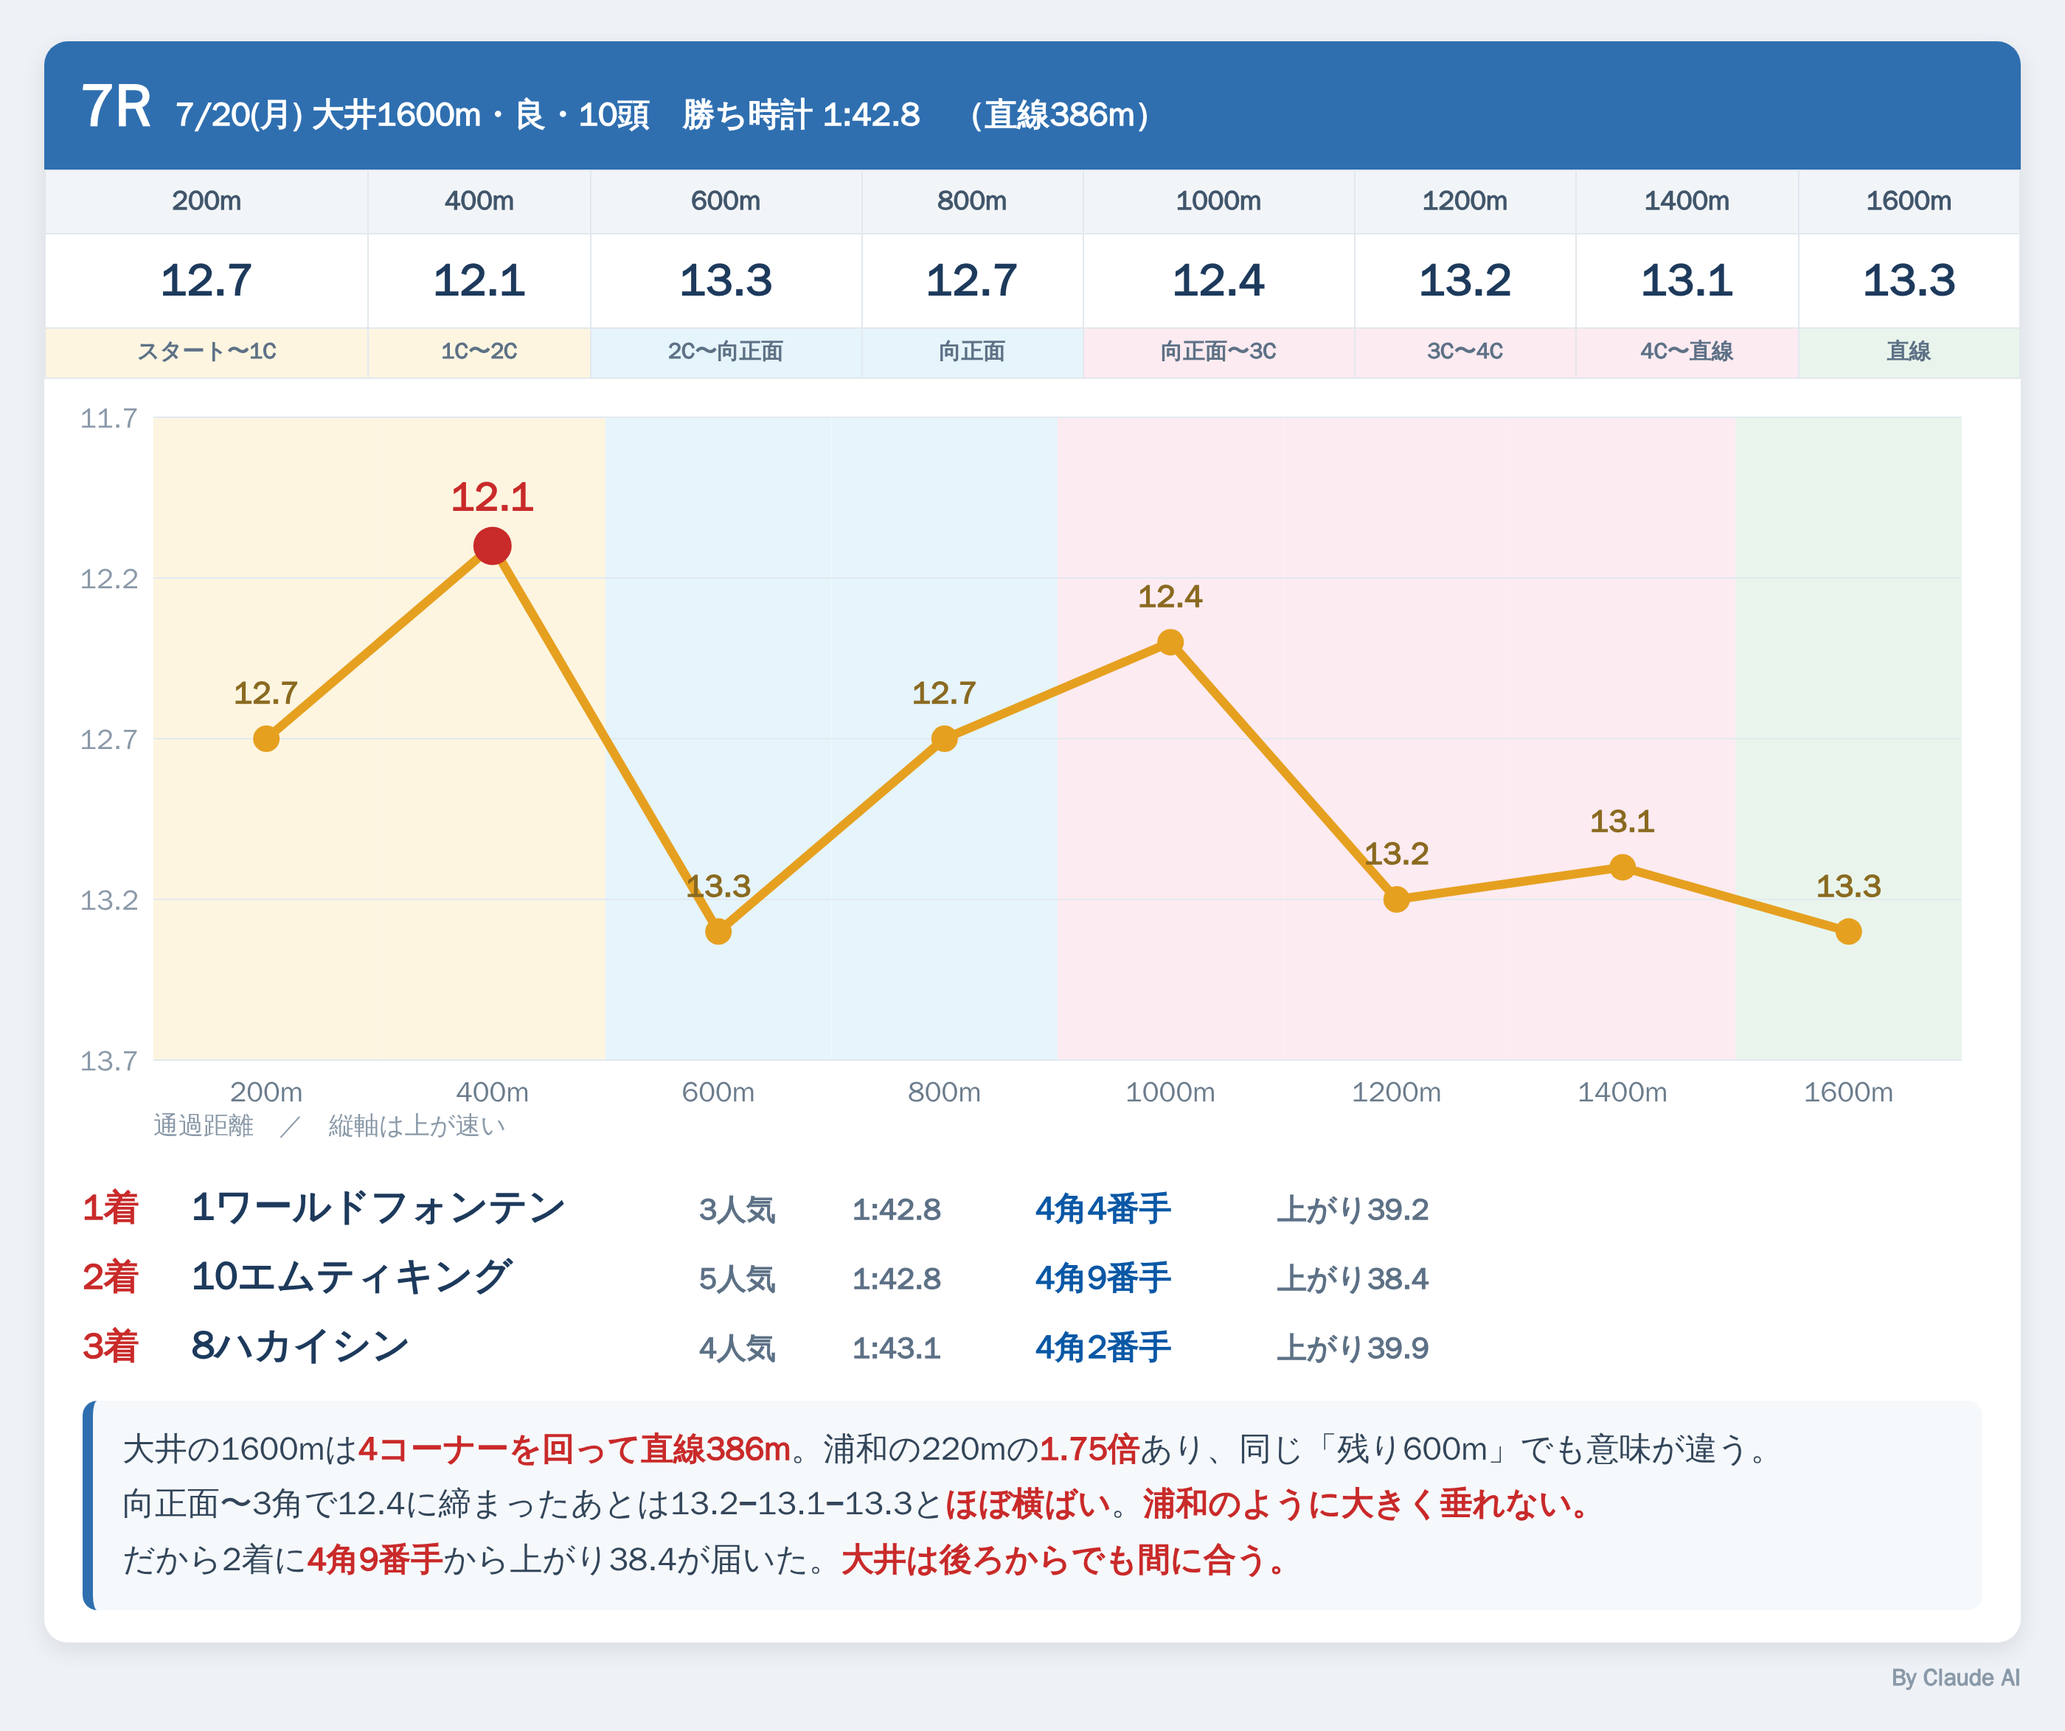
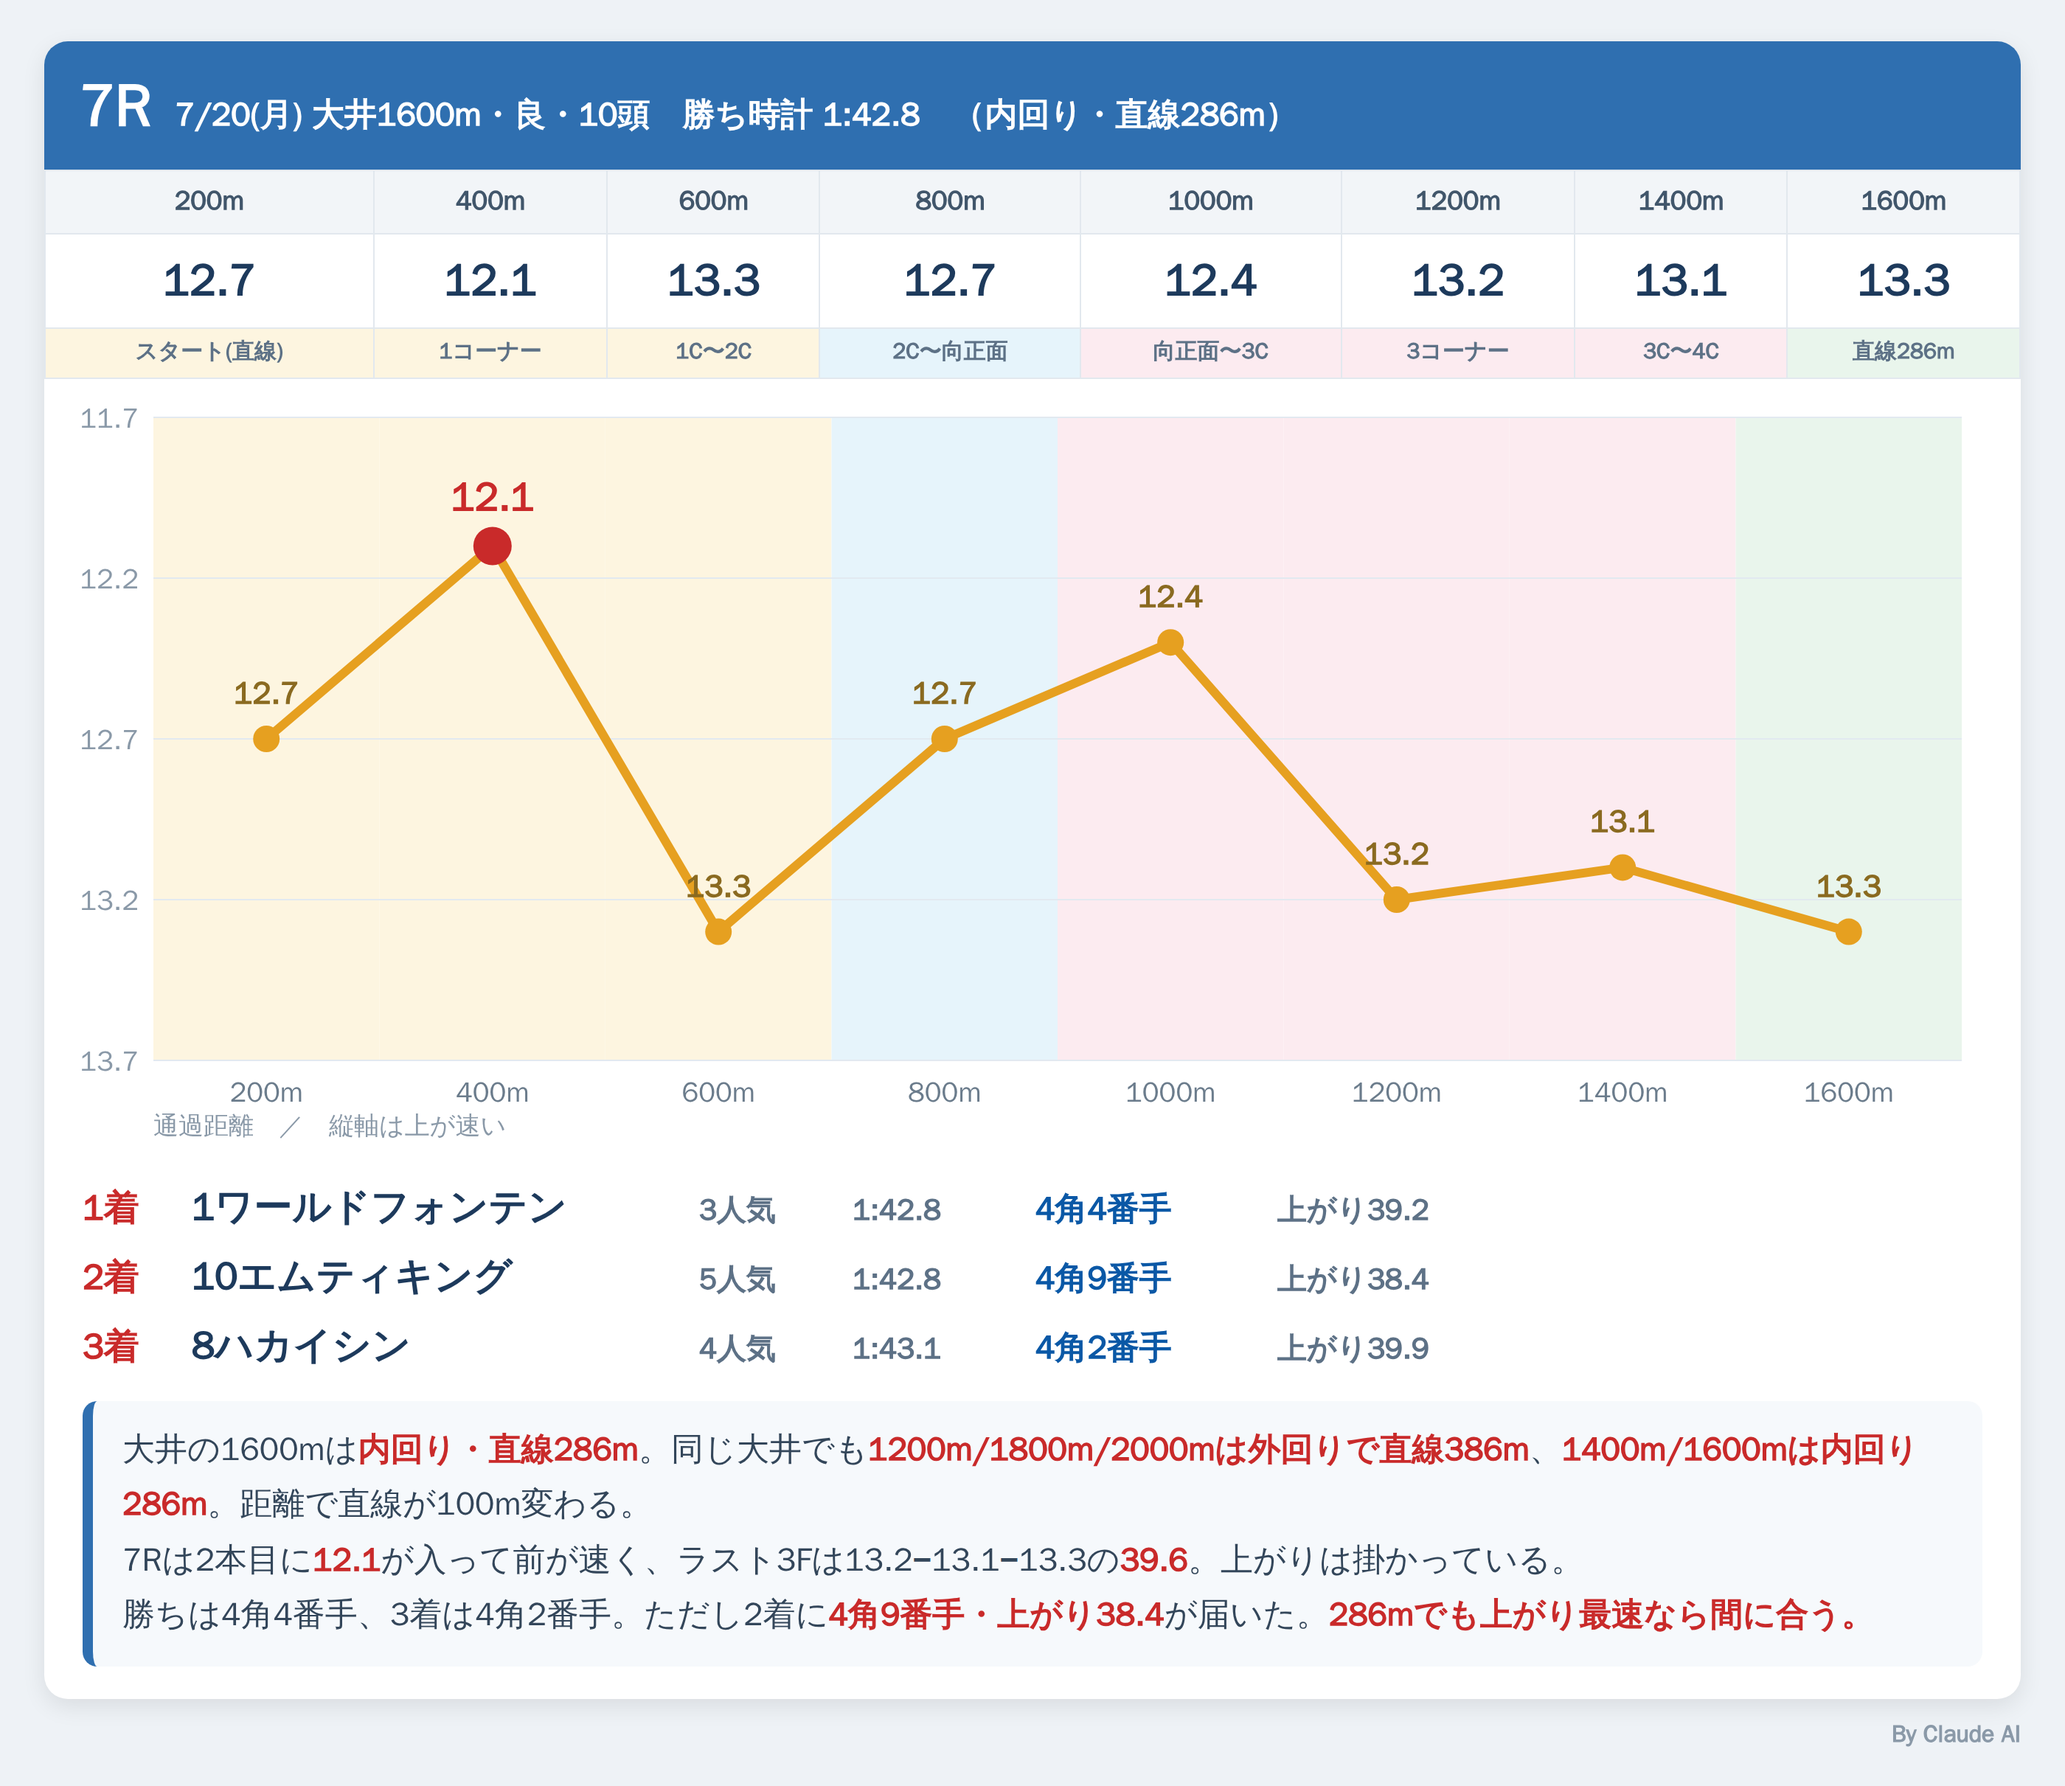
大井7/20 7R: コース表記を内回り・直線286mに修正
大井は1400m/1600mが内回り(1周1400m・直線286m)、1200m/1800m/2000mが
外回り(1周1600m・直線386m)。7Rの1600mを外回り386mと誤記していたため、
ヘッダー・区間ラベル・読み文をすべて内回り基準に修正した。

Claude-Session: https://claude.ai/code/session_01RoHscZkr96FNaxQWvUqgEw

diff --git a/notes/live/2026-08-12/oi_0720_7R.html b/notes/live/2026-08-12/oi_0720_7R.html
@@ -25,11 +25,11 @@
 </style></head><body>
 <div class="card">
   <div class="box">
-    <div class="bh"><b>7R</b><span>7/20(月) 大井1600m・良・10頭　勝ち時計 1:42.8　（直線386m）</span></div>
-    <table><tr><th>200m</th><th>400m</th><th>600m</th><th>800m</th><th>1000m</th><th>1200m</th><th>1400m</th><th>1600m</th></tr><tr><td>12.7</td><td>12.1</td><td>13.3</td><td>12.7</td><td>12.4</td><td>13.2</td><td>13.1</td><td>13.3</td></tr><tr><td class="sg" style="background:#fdf5e0">スタート〜1C</td><td class="sg" style="background:#fdf5e0">1C〜2C</td><td class="sg" style="background:#e6f4fb">2C〜向正面</td><td class="sg" style="background:#e6f4fb">向正面</td><td class="sg" style="background:#fcebf0">向正面〜3C</td><td class="sg" style="background:#fcebf0">3C〜4C</td><td class="sg" style="background:#fcebf0">4C〜直線</td><td class="sg" style="background:#e9f5ec">直線</td></tr></table>
-    <svg viewBox="0 0 1320 520" width="1320" height="520"><rect x="74.0" y="26" width="153.2" height="436" fill="#fdf5e0"/><rect x="227.2" y="26" width="153.2" height="436" fill="#fdf5e0"/><rect x="380.5" y="26" width="153.2" height="436" fill="#e6f4fb"/><rect x="533.8" y="26" width="153.2" height="436" fill="#e6f4fb"/><rect x="687.0" y="26" width="153.2" height="436" fill="#fcebf0"/><rect x="840.2" y="26" width="153.2" height="436" fill="#fcebf0"/><rect x="993.5" y="26" width="153.2" height="436" fill="#fcebf0"/><rect x="1146.8" y="26" width="153.2" height="436" fill="#e9f5ec"/><line x1="74" y1="26.0" x2="1300" y2="26.0" stroke="#e2e9f0"/><text x="64" y="33.0" text-anchor="end" font-size="19" fill="#8a99a8">11.7</text><line x1="74" y1="135.0" x2="1300" y2="135.0" stroke="#e2e9f0"/><text x="64" y="142.0" text-anchor="end" font-size="19" fill="#8a99a8">12.2</text><line x1="74" y1="244.0" x2="1300" y2="244.0" stroke="#e2e9f0"/><text x="64" y="251.0" text-anchor="end" font-size="19" fill="#8a99a8">12.7</text><line x1="74" y1="353.0" x2="1300" y2="353.0" stroke="#e2e9f0"/><text x="64" y="360.0" text-anchor="end" font-size="19" fill="#8a99a8">13.2</text><line x1="74" y1="462.0" x2="1300" y2="462.0" stroke="#e2e9f0"/><text x="64" y="469.0" text-anchor="end" font-size="19" fill="#8a99a8">13.7</text><polyline points="150.6,244.0 303.9,113.2 457.1,374.8 610.4,244.0 763.6,178.6 916.9,353.0 1070.1,331.2 1223.4,374.8" fill="none" stroke="#e6a020" stroke-width="6" stroke-linejoin="round"/><circle cx="150.6" cy="244.0" r="9" fill="#e6a020"/><text x="150.6" y="220.0" text-anchor="middle" font-size="21" font-weight="900" fill="#8a6a20">12.7</text><text x="150.6" y="490" text-anchor="middle" font-size="19" fill="#6b7c8c">200m</text><circle cx="303.9" cy="113.2" r="13" fill="#c92a2a"/><text x="303.9" y="89.2" text-anchor="middle" font-size="27" font-weight="900" fill="#c92a2a">12.1</text><text x="303.9" y="490" text-anchor="middle" font-size="19" fill="#6b7c8c">400m</text><circle cx="457.1" cy="374.8" r="9" fill="#e6a020"/><text x="457.1" y="350.8" text-anchor="middle" font-size="21" font-weight="900" fill="#8a6a20">13.3</text><text x="457.1" y="490" text-anchor="middle" font-size="19" fill="#6b7c8c">600m</text><circle cx="610.4" cy="244.0" r="9" fill="#e6a020"/><text x="610.4" y="220.0" text-anchor="middle" font-size="21" font-weight="900" fill="#8a6a20">12.7</text><text x="610.4" y="490" text-anchor="middle" font-size="19" fill="#6b7c8c">800m</text><circle cx="763.6" cy="178.6" r="9" fill="#e6a020"/><text x="763.6" y="154.6" text-anchor="middle" font-size="21" font-weight="900" fill="#8a6a20">12.4</text><text x="763.6" y="490" text-anchor="middle" font-size="19" fill="#6b7c8c">1000m</text><circle cx="916.9" cy="353.0" r="9" fill="#e6a020"/><text x="916.9" y="329.0" text-anchor="middle" font-size="21" font-weight="900" fill="#8a6a20">13.2</text><text x="916.9" y="490" text-anchor="middle" font-size="19" fill="#6b7c8c">1200m</text><circle cx="1070.1" cy="331.2" r="9" fill="#e6a020"/><text x="1070.1" y="307.2" text-anchor="middle" font-size="21" font-weight="900" fill="#8a6a20">13.1</text><text x="1070.1" y="490" text-anchor="middle" font-size="19" fill="#6b7c8c">1400m</text><circle cx="1223.4" cy="374.8" r="9" fill="#e6a020"/><text x="1223.4" y="350.8" text-anchor="middle" font-size="21" font-weight="900" fill="#8a6a20">13.3</text><text x="1223.4" y="490" text-anchor="middle" font-size="19" fill="#6b7c8c">1600m</text><text x="74" y="512" font-size="17" fill="#8a99a8">通過距離　／　縦軸は上が速い</text></svg>
+    <div class="bh"><b>7R</b><span>7/20(月) 大井1600m・良・10頭　勝ち時計 1:42.8　（内回り・直線286m）</span></div>
+    <table><tr><th>200m</th><th>400m</th><th>600m</th><th>800m</th><th>1000m</th><th>1200m</th><th>1400m</th><th>1600m</th></tr><tr><td>12.7</td><td>12.1</td><td>13.3</td><td>12.7</td><td>12.4</td><td>13.2</td><td>13.1</td><td>13.3</td></tr><tr><td class="sg" style="background:#fdf5e0">スタート(直線)</td><td class="sg" style="background:#fdf5e0">1コーナー</td><td class="sg" style="background:#fdf5e0">1C〜2C</td><td class="sg" style="background:#e6f4fb">2C〜向正面</td><td class="sg" style="background:#fcebf0">向正面〜3C</td><td class="sg" style="background:#fcebf0">3コーナー</td><td class="sg" style="background:#fcebf0">3C〜4C</td><td class="sg" style="background:#e9f5ec">直線286m</td></tr></table>
+    <svg viewBox="0 0 1320 520" width="1320" height="520"><rect x="74.0" y="26" width="153.2" height="436" fill="#fdf5e0"/><rect x="227.2" y="26" width="153.2" height="436" fill="#fdf5e0"/><rect x="380.5" y="26" width="153.2" height="436" fill="#fdf5e0"/><rect x="533.8" y="26" width="153.2" height="436" fill="#e6f4fb"/><rect x="687.0" y="26" width="153.2" height="436" fill="#fcebf0"/><rect x="840.2" y="26" width="153.2" height="436" fill="#fcebf0"/><rect x="993.5" y="26" width="153.2" height="436" fill="#fcebf0"/><rect x="1146.8" y="26" width="153.2" height="436" fill="#e9f5ec"/><line x1="74" y1="26.0" x2="1300" y2="26.0" stroke="#e2e9f0"/><text x="64" y="33.0" text-anchor="end" font-size="19" fill="#8a99a8">11.7</text><line x1="74" y1="135.0" x2="1300" y2="135.0" stroke="#e2e9f0"/><text x="64" y="142.0" text-anchor="end" font-size="19" fill="#8a99a8">12.2</text><line x1="74" y1="244.0" x2="1300" y2="244.0" stroke="#e2e9f0"/><text x="64" y="251.0" text-anchor="end" font-size="19" fill="#8a99a8">12.7</text><line x1="74" y1="353.0" x2="1300" y2="353.0" stroke="#e2e9f0"/><text x="64" y="360.0" text-anchor="end" font-size="19" fill="#8a99a8">13.2</text><line x1="74" y1="462.0" x2="1300" y2="462.0" stroke="#e2e9f0"/><text x="64" y="469.0" text-anchor="end" font-size="19" fill="#8a99a8">13.7</text><polyline points="150.6,244.0 303.9,113.2 457.1,374.8 610.4,244.0 763.6,178.6 916.9,353.0 1070.1,331.2 1223.4,374.8" fill="none" stroke="#e6a020" stroke-width="6" stroke-linejoin="round"/><circle cx="150.6" cy="244.0" r="9" fill="#e6a020"/><text x="150.6" y="220.0" text-anchor="middle" font-size="21" font-weight="900" fill="#8a6a20">12.7</text><text x="150.6" y="490" text-anchor="middle" font-size="19" fill="#6b7c8c">200m</text><circle cx="303.9" cy="113.2" r="13" fill="#c92a2a"/><text x="303.9" y="89.2" text-anchor="middle" font-size="27" font-weight="900" fill="#c92a2a">12.1</text><text x="303.9" y="490" text-anchor="middle" font-size="19" fill="#6b7c8c">400m</text><circle cx="457.1" cy="374.8" r="9" fill="#e6a020"/><text x="457.1" y="350.8" text-anchor="middle" font-size="21" font-weight="900" fill="#8a6a20">13.3</text><text x="457.1" y="490" text-anchor="middle" font-size="19" fill="#6b7c8c">600m</text><circle cx="610.4" cy="244.0" r="9" fill="#e6a020"/><text x="610.4" y="220.0" text-anchor="middle" font-size="21" font-weight="900" fill="#8a6a20">12.7</text><text x="610.4" y="490" text-anchor="middle" font-size="19" fill="#6b7c8c">800m</text><circle cx="763.6" cy="178.6" r="9" fill="#e6a020"/><text x="763.6" y="154.6" text-anchor="middle" font-size="21" font-weight="900" fill="#8a6a20">12.4</text><text x="763.6" y="490" text-anchor="middle" font-size="19" fill="#6b7c8c">1000m</text><circle cx="916.9" cy="353.0" r="9" fill="#e6a020"/><text x="916.9" y="329.0" text-anchor="middle" font-size="21" font-weight="900" fill="#8a6a20">13.2</text><text x="916.9" y="490" text-anchor="middle" font-size="19" fill="#6b7c8c">1200m</text><circle cx="1070.1" cy="331.2" r="9" fill="#e6a020"/><text x="1070.1" y="307.2" text-anchor="middle" font-size="21" font-weight="900" fill="#8a6a20">13.1</text><text x="1070.1" y="490" text-anchor="middle" font-size="19" fill="#6b7c8c">1400m</text><circle cx="1223.4" cy="374.8" r="9" fill="#e6a020"/><text x="1223.4" y="350.8" text-anchor="middle" font-size="21" font-weight="900" fill="#8a6a20">13.3</text><text x="1223.4" y="490" text-anchor="middle" font-size="19" fill="#6b7c8c">1600m</text><text x="74" y="512" font-size="17" fill="#8a99a8">通過距離　／　縦軸は上が速い</text></svg>
     <div class="tops"><div class="tp"><span class="f">1着</span><span class="hn">1ワールドフォンテン</span><span class="pp">3人気</span><span class="tm">1:42.8</span><span class="cn">4角4番手</span><span class="ag">上がり39.2</span></div><div class="tp"><span class="f">2着</span><span class="hn">10エムティキング</span><span class="pp">5人気</span><span class="tm">1:42.8</span><span class="cn">4角9番手</span><span class="ag">上がり38.4</span></div><div class="tp"><span class="f">3着</span><span class="hn">8ハカイシン</span><span class="pp">4人気</span><span class="tm">1:43.1</span><span class="cn">4角2番手</span><span class="ag">上がり39.9</span></div></div>
-    <div class="read">大井の1600mは<b>4コーナーを回って直線386m</b>。浦和の220mの<b>1.75倍</b>あり、同じ「残り600m」でも意味が違う。<br>向正面〜3角で12.4に締まったあとは13.2−13.1−13.3と<b>ほぼ横ばい</b>。<b>浦和のように大きく垂れない。</b><br>だから2着に<b>4角9番手</b>から上がり38.4が届いた。<b>大井は後ろからでも間に合う。</b></div>
+    <div class="read">大井の1600mは<b>内回り・直線286m</b>。同じ大井でも<b>1200m/1800m/2000mは外回りで直線386m</b>、<b>1400m/1600mは内回り286m</b>。距離で直線が100m変わる。<br>7Rは2本目に<b>12.1</b>が入って前が速く、ラスト3Fは13.2−13.1−13.3の<b>39.6</b>。上がりは掛かっている。<br>勝ちは4角4番手、3着は4角2番手。ただし2着に<b>4角9番手・上がり38.4</b>が届いた。<b>286mでも上がり最速なら間に合う。</b></div>
   </div>
   <div class="sig">By Claude AI</div>
 </div>
